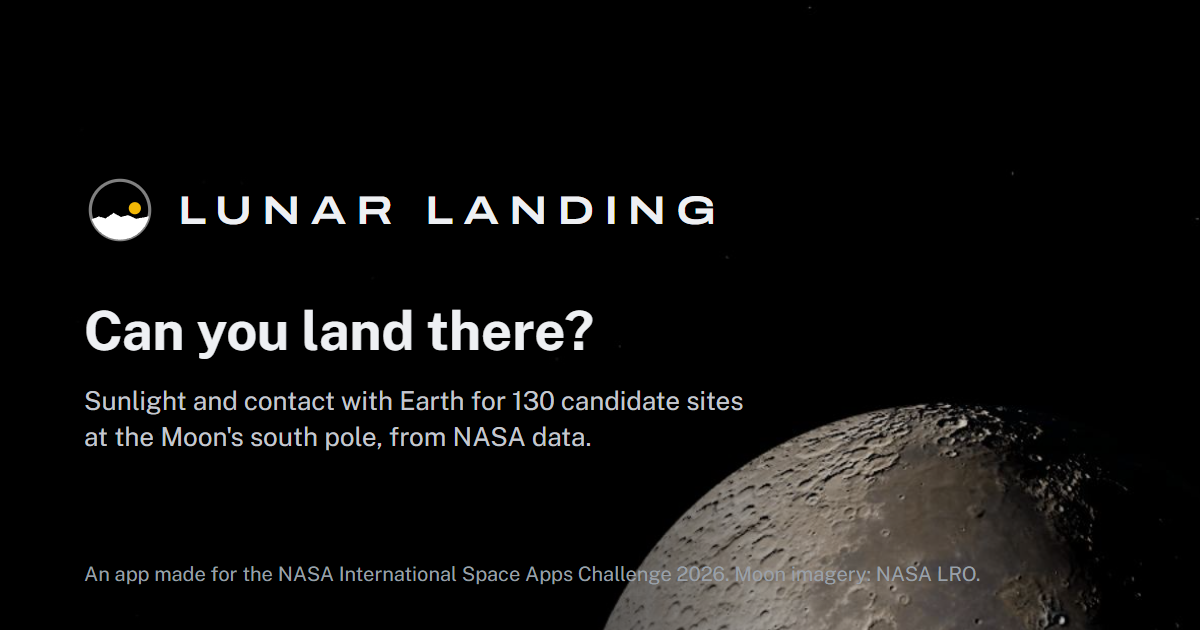
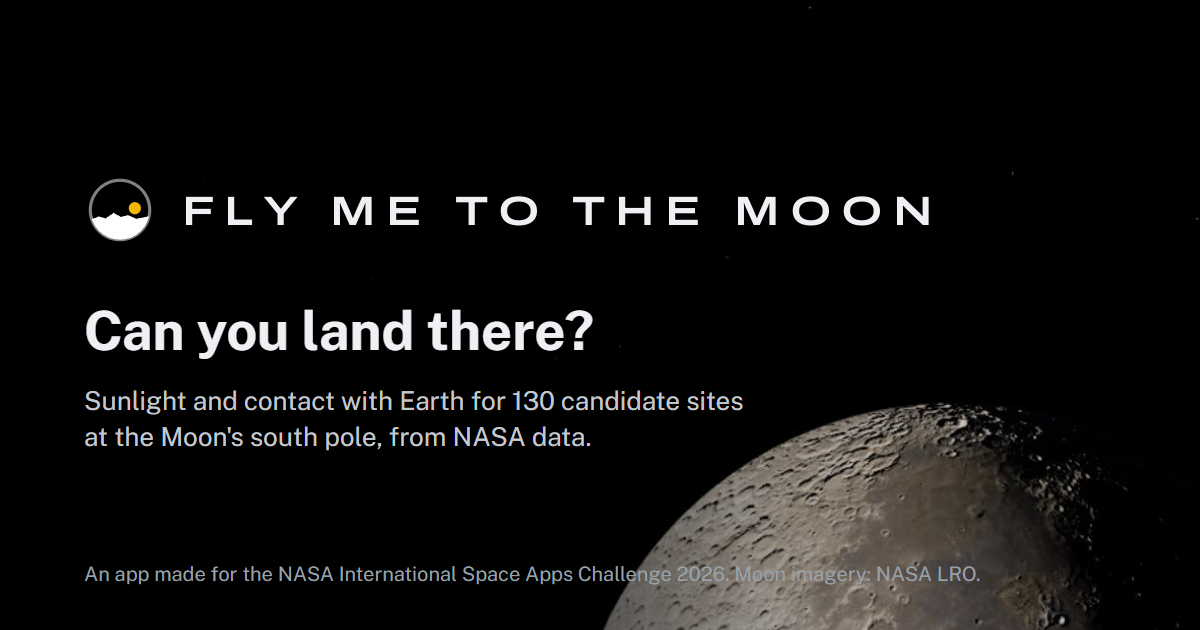
Nombre de la web: Fly Me to the Moon
Título, etiquetas para redes y buscadores, manifiesto, logo, pantalla de
carga, textos en inglés y español, logos de docs/recursos y la vista
previa para redes (retocada con la misma letra). Caché v5 para que las
apps instaladas recojan el cambio.

IA: Claude Code cambió el nombre y retocó la imagen a petición de Angela.

Changed region(s): [[0.1542, 0.3016, 0.7708, 0.3619]]

diff --git a/web/index.html b/web/index.html
@@ -3,9 +3,9 @@
   <head>
     <meta charset="UTF-8" />
     <meta name="viewport" content="width=device-width, initial-scale=1.0, viewport-fit=cover" />
-    <title>Lunar Landing — can you land there?</title>
+    <title>Fly Me to the Moon — can you land there?</title>
     <meta name="description" content="Pick a landing site at the Moon's south pole and see, from NASA data, whether it gets sunlight for power and a direct line to Earth during your stay. 130 Artemis candidate sites, in English and Spanish." />
-    <meta name="application-name" content="Lunar Landing" />
+    <meta name="application-name" content="Fly Me to the Moon" />
     <meta name="theme-color" content="#000000" />
     <meta name="color-scheme" content="dark" />
     <meta name="robots" content="index, follow" />
@@ -20,34 +20,34 @@
     <!-- Installed on a phone home screen -->
     <meta name="mobile-web-app-capable" content="yes" />
     <meta name="apple-mobile-web-app-capable" content="yes" />
-    <meta name="apple-mobile-web-app-title" content="Lunar Landing" />
+    <meta name="apple-mobile-web-app-title" content="Fly Me to the Moon" />
     <meta name="apple-mobile-web-app-status-bar-style" content="black-translucent" />
     <meta name="format-detection" content="telephone=no" />
 
     <!-- Link previews (Open Graph, X/Twitter) -->
     <meta property="og:type" content="website" />
-    <meta property="og:site_name" content="Lunar Landing" />
+    <meta property="og:site_name" content="Fly Me to the Moon" />
     <meta property="og:url" content="https://nasaspaceapps.volmer.es/" />
-    <meta property="og:title" content="Lunar Landing — can you land there?" />
+    <meta property="og:title" content="Fly Me to the Moon — can you land there?" />
     <meta property="og:description" content="Sunlight and contact with Earth for 130 candidate sites at the Moon's south pole, from NASA data. Made for the NASA International Space Apps Challenge 2026." />
     <meta property="og:image" content="https://nasaspaceapps.volmer.es/og-image.png" />
     <meta property="og:image:width" content="1200" />
     <meta property="og:image:height" content="630" />
-    <meta property="og:image:alt" content="Lunar Landing: the app's mark and the question 'Can you land there?' next to the lunar surface" />
+    <meta property="og:image:alt" content="Fly Me to the Moon: the app's mark and the question 'Can you land there?' next to the lunar surface" />
     <meta property="og:locale" content="en_GB" />
     <meta property="og:locale:alternate" content="es_ES" />
     <meta name="twitter:card" content="summary_large_image" />
-    <meta name="twitter:title" content="Lunar Landing — can you land there?" />
+    <meta name="twitter:title" content="Fly Me to the Moon — can you land there?" />
     <meta name="twitter:description" content="Sunlight and contact with Earth for 130 candidate sites at the Moon's south pole, from NASA data." />
     <meta name="twitter:image" content="https://nasaspaceapps.volmer.es/og-image.png" />
-    <meta name="twitter:image:alt" content="Lunar Landing: the app's mark and the question 'Can you land there?' next to the lunar surface" />
+    <meta name="twitter:image:alt" content="Fly Me to the Moon: the app's mark and the question 'Can you land there?' next to the lunar surface" />
 
     <!-- What this is, for search engines -->
     <script type="application/ld+json">
       {
         "@context": "https://schema.org",
         "@type": "WebApplication",
-        "name": "Lunar Landing",
+        "name": "Fly Me to the Moon",
         "url": "https://nasaspaceapps.volmer.es/",
         "description": "Pick a landing site at the Moon's south pole and see whether it gets sunlight and a direct line to Earth during your stay.",
         "applicationCategory": "EducationalApplication",
@@ -70,8 +70,8 @@
   <body>
     <noscript>
       <p style="font-family: system-ui, sans-serif; color: #eef0f3; background: #000; margin: 0; padding: 24px">
-        Lunar Landing needs JavaScript to compute sunlight and Earth contact on the Moon. Please turn it on.
-        <br />Lunar Landing necesita JavaScript para calcular la luz y el contacto con la Tierra en la Luna. Actívalo, por favor.
+        Fly Me to the Moon needs JavaScript to compute sunlight and Earth contact on the Moon. Please turn it on.
+        <br />Fly Me to the Moon necesita JavaScript para calcular la luz y el contacto con la Tierra en la Luna. Actívalo, por favor.
       </p>
     </noscript>
     <div id="root"></div>

diff --git a/web/src/i18n.tsx b/web/src/i18n.tsx
@@ -6,7 +6,7 @@ export type Lang = 'en' | 'es'
 
 const en = {
   locale: 'en-GB',
-  title: 'Lunar Landing',
+  title: 'Fly Me to the Moon',
   tagline: "Compare landing sites and dates at the Moon's south pole: sunlight for power, and a direct line to Earth.",
   language: 'Language',
   copyLink: 'Copy link to this comparison',
@@ -298,7 +298,7 @@ const en = {
     'not-viable': 'Red: no hour that day gives a viable stay of this length',
   },
   dayOfStay: (n: number, total: number) => `Day ${n}/${total}`,
-  splashLabel: 'Loading Lunar Landing',
+  splashLabel: 'Loading Fly Me to the Moon',
   madeFor: 'Made for the NASA International Space Apps Challenge 2026',
   splashTagline: 'Where and when to land, by sunlight and a line to Earth',
   splashSteps: ['Sun and Earth positions', 'Tracing terrain horizons', 'Comparing sites'],
@@ -354,7 +354,7 @@ export type Strings = typeof en
 
 const es: Strings = {
   locale: 'es-ES',
-  title: 'Lunar Landing',
+  title: 'Fly Me to the Moon',
   tagline: 'Compara sitios y fechas de alunizaje en el polo sur de la Luna: luz solar para tener energía y línea directa con la Tierra.',
   language: 'Idioma',
   copyLink: 'Copiar el enlace a esta comparación',
@@ -646,7 +646,7 @@ const es: Strings = {
     'not-viable': 'Rojo: ninguna hora de ese día da una estancia viable de esta duración',
   },
   dayOfStay: (n: number, total: number) => `Día ${n}/${total}`,
-  splashLabel: 'Cargando Lunar Landing',
+  splashLabel: 'Cargando Fly Me to the Moon',
   madeFor: 'Hecha para el NASA International Space Apps Challenge 2026',
   splashTagline: 'Dónde y cuándo alunizar, según la luz del Sol y la línea con la Tierra',
   splashSteps: ['Posiciones del Sol y la Tierra', 'Trazando los horizontes del relieve', 'Comparando los sitios'],

diff --git a/web/public/sw.js b/web/public/sw.js
@@ -1,9 +1,9 @@
-// Lunar Landing service worker: lets the app open again without a connection.
+// Fly Me to the Moon service worker: lets the app open again without a connection.
 // - Pages: network first, the saved copy if offline (so a new version always wins when online).
 // - Everything else from this site (code, NASA data, Moon textures): the saved copy at once,
 //   refreshed in the background, so a second visit starts fast and works offline.
 // Only same-origin GET requests are handled; nothing leaves the browser.
-const CACHE = 'lunar-landing-v4' // bump to drop files no longer used (v2: Plotly removed)
+const CACHE = 'lunar-landing-v5' // bump to drop files no longer used (v2: Plotly removed)
 const SHELL = ['/', '/manifest.webmanifest', '/favicon.svg', '/icon-192.png', '/data/sites.json', '/data/horizons.json', '/data/subpoints.json', '/data/madrid.json', '/data/validation.json', '/data/team.json', '/moon/moon_fallback_wide.jpg', '/moon/moon_fallback_tall.jpg']
 
 self.addEventListener('install', (event) => {

diff --git a/web/src/components/Logo.tsx b/web/src/components/Logo.tsx
@@ -1,4 +1,4 @@
-// Lunar Landing mark: the Moon's disc, its surface with a ridge, and the Sun just grazing that
+// Fly Me to the Moon mark: the Moon's disc, its surface with a ridge, and the Sun just grazing that
 // ridge: the light that decides where you can land. Solid, simple shapes so it reads at 16 px.
 export const MARK_PATHS = {
   ridge: 'M2 20.6 L6.6 18.9 L9.6 19.7 L13.2 17.3 L16.4 19.1 L19.6 18.3 L23.2 19.9 L30 18.6 L30 31 L2 31 Z',
@@ -24,7 +24,7 @@ export function Logo({ className = '' }: { className?: string }) {
   return (
     <span className={`flex items-center gap-2.5 text-white ${className}`}>
       <LogoMark />
-      <span className="wordmark text-[13px] leading-none min-[400px]:text-[15px] sm:text-base">LUNAR LANDING</span>
+      <span className="wordmark text-[11px] leading-none min-[400px]:text-[13px] sm:text-base">FLY ME TO THE MOON</span>
     </span>
   )
 }

diff --git a/web/src/components/Splash.tsx b/web/src/components/Splash.tsx
@@ -161,8 +161,8 @@ export function Splash({ onDone, showMoon, moon }: { onDone: () => void; showMoo
 
       <div className="absolute inset-x-0 top-[13vh] flex flex-col items-center gap-4 px-6 text-center">
         <LogoMark size={52} className="sp-sub mb-2 text-white" />
-        <h1 className="sp-sheen wordmark text-[clamp(28px,5vw,64px)] leading-none" style={{ paddingLeft: '0.28em', letterSpacing: '0.28em' }}>
-          LUNAR LANDING
+        <h1 className="sp-sheen wordmark text-[clamp(22px,4.4vw,60px)] leading-none" style={{ paddingLeft: '0.28em', letterSpacing: '0.28em' }}>
+          FLY ME TO THE MOON
         </h1>
         <p className="sp-sub max-w-xl text-balance text-base font-light text-white/80 sm:text-lg">{t.splashTagline}</p>
       </div>

diff --git a/docs/IA.md b/docs/IA.md
@@ -105,6 +105,7 @@ comprobó**. Lo que no se ha comprobado lleva ⚠.
 | Ficha como cajón a la izquierda en todos los tamaños | Pasó la ficha de hoja inferior (móvil) a cajón lateral: sobre la Luna en móvil, al lado desde tablet; pestaña fina en el borde para plegar en vez de la flecha grande; plegada, una pastilla pequeña arriba a la izquierda; en móvil se cierra deslizando a la izquierda | **Petición de Angela** («la flecha es extremadamente grande; el menú a la izquierda, no abajo; 100 % responsive») | Compila y pasa el lint. ⚠ Sin ver en pantalla ni en un móvil real |
 | Valores al cargar | La ficha empieza plegada en cada carga; por defecto, alunizaje hoy a las 06:00 UTC y 10 días. Si la fecha no tiene datos (hoy, 14‑nov‑2026, es anterior al 1‑dic‑2026), se mueve al día más cercano con datos a las 06:00 y un aviso lo dice | **Petición de Angela** | Compila y pasa el lint. ⚠ Sin ver en pantalla |
 | Exploración libre y «Añadir a misión» | Por defecto, primer día con datos a las 06:00 UTC sin aviso. Ninguna misión se aplica hasta entrar en ella (ya no se recuerda la activa); se sale con «×». Explorando libre, «Añadir a misión» guarda lo que se ve como escenario de cualquier misión, o de una nueva, sin cambiar a ella | **Petición de Angela** | Compila y pasa el lint. ⚠ Sin ver en pantalla |
+| Nombre de la web: «Fly Me to the Moon» | Cambió el nombre en el título, las etiquetas para redes y buscadores, el manifiesto de la app, el logo, la pantalla de carga, los textos en inglés y español y los logos de `docs/recursos/`; retocó la vista previa para redes (`og-image.png`) con la misma letra (Archivo) y el mismo tamaño; subió la versión de la caché | **El nombre lo decidió Angela** | Compila; la imagen nueva revisada a ojo. ⚠ Las capturas del manifiesto (`screenshot-*.png`) aún muestran el nombre anterior |
 
 ### 15‑nov · domingo
 

diff --git a/docs/recursos/README.md b/docs/recursos/README.md
@@ -5,7 +5,7 @@ proyecto.
 
 | Fichero | Qué es | Fuente y condiciones |
 |---|---|---|
-| `lunar-landing-logo.svg` | Logo de Lunar Landing (símbolo + logotipo) sobre negro | Propio. Letra: Archivo (OFL) |
+| `lunar-landing-logo.svg` | Logo de Fly Me to the Moon (símbolo + logotipo) sobre negro | Propio. Letra: Archivo (OFL) |
 | `lunar-landing-logo-light.svg` | El mismo logo sobre blanco, para documentos y diapositivas claras | Propio |
 | `lunar-landing-mark.svg` | Símbolo solo: el disco de la Luna, su superficie con una cresta y el Sol rasando el horizonte. Es también el favicon. Colores: negro, blanco y ámbar `#f2b705` | Propio |
 | *(pendiente)* `space-apps-logo.*` | Logo de NASA Space Apps Challenge 2026 para «Made for the NASA International Space Apps Challenge 2026» | ⚠ Lo pasa el equipo. Comprobar las normas de marca de Space Apps antes de publicarlo. **La insignia de la NASA (meatball/worm) no se usa** (`AGENTS.md`) |
